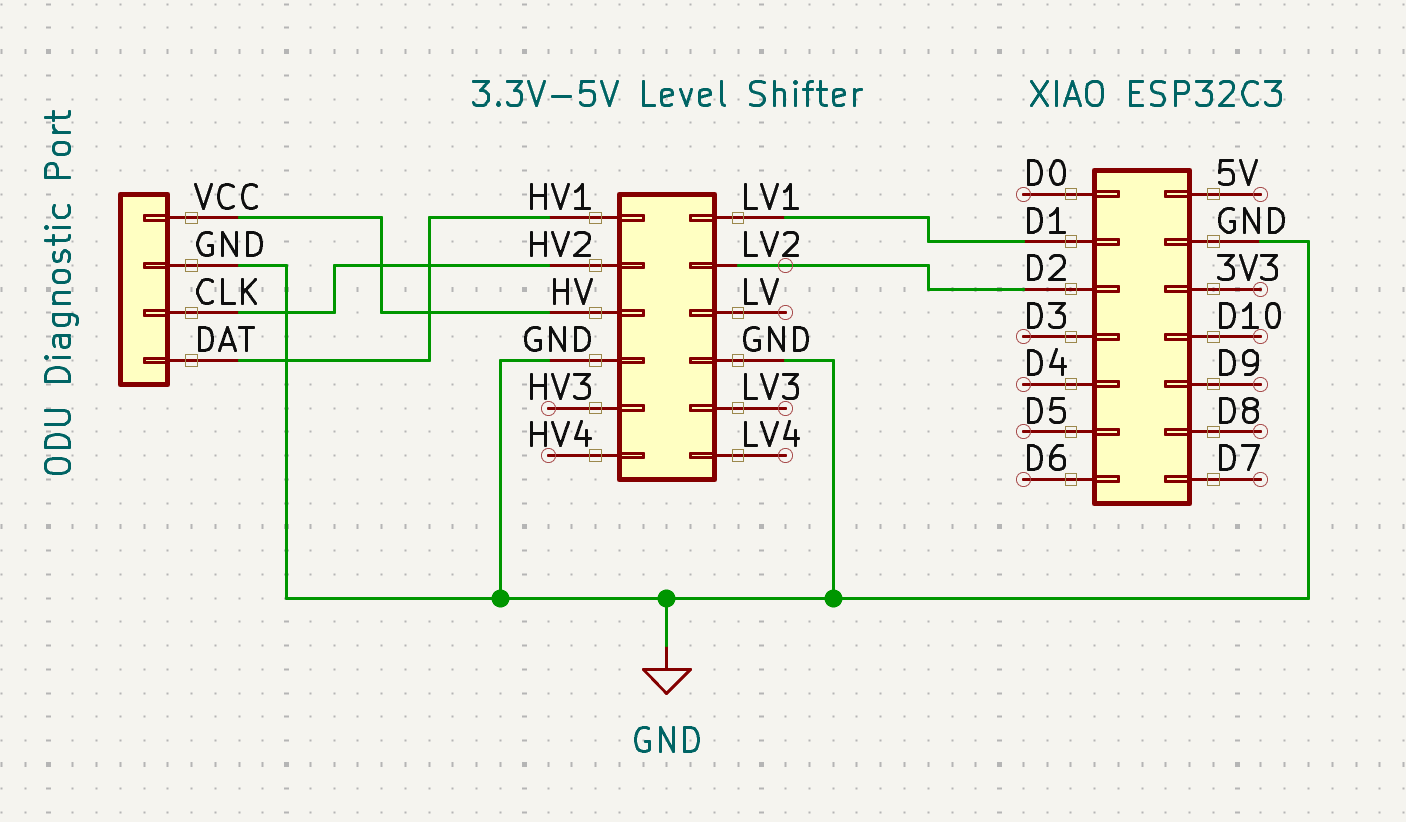
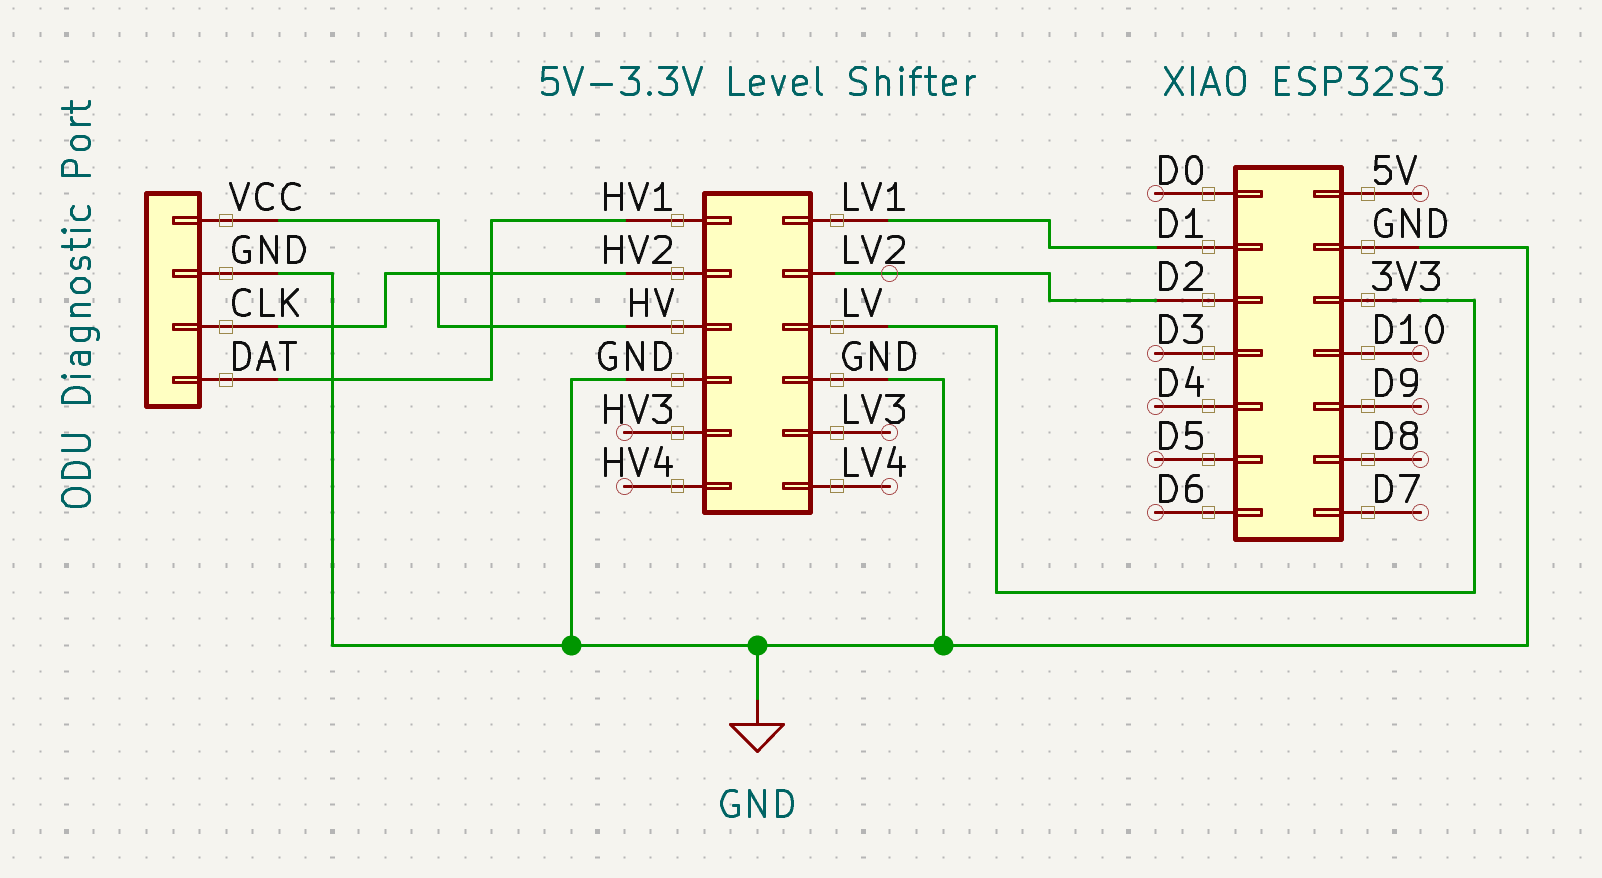
switch to HWCDCSerial

diff --git a/README.md b/README.md
@@ -1,6 +1,6 @@
 # midea-telemetry
 
-Arduino firmware for capturing telemetry from the diagnostic port on Midea mini-splits, located on the outdoor inverter board. Midea sells a handheld inverter tester that plugs into this port. This project reproduces that tester with a cheap ESP32 microcontroller, so you can log the same data yourself and explore the inner workings of your unit.
+Arduino firmware for capturing telemetry from the diagnostic port on Midea mini-splits, located on the outdoor inverter board. Midea sells a handheld inverter tester that plugs into this port. This project reproduces that tester with a cheap ESP32S3 microcontroller, so you can log the same data yourself and explore the inner workings of your unit.
 
 > ⚠️ **Safety.** The outdoor unit runs on mains voltage and can retain a dangerous charge after being unplugged. Only plug a connector into the diagnostic port if you know what you are doing. You are responsible for your own hardware and safety.
 
@@ -16,7 +16,7 @@ The only thing you need to connect an ESP32 to the diagnostic port is a level sh
 
 BOM:
 - [3.3V-5V Level Shifter](https://www.amazon.com/dp/B07F7W91LC)
-- [XIAO ESP32C3](https://www.amazon.com/dp/B0B94JZ2YF)
+- [XIAO ESP32S3](https://www.amazon.com/dp/B0BYSB66S5)
 
 ## Sketches
 
@@ -77,19 +77,22 @@ req=0xAA0200000000FF000055, res=0x550127ABB3E7006002DC, status=OK
 ...
 ```
 
-Note: On my ESP32-C3, I regularly see messages that don't decode fully — some bits are lost when loop() isn't called fast enough. There are ways around this, but I prefer to keep the sketch simple, and I can still capture enough data for analysis (even if it takes a couple of tries).
+Note: I initially used a ESP32C3 and I regularly encountered messages that don't decode fully — some bits are lost when loop() isn't called fast enough. There are ways around this, but I prefer to keep the sketch simple, and I can still capture enough data for analysis (even if it takes a couple of tries).
 
 When a request or response fails to decode, you'll see a line like:
 ```
 req=                      , res=                      , status=INCOMPLETE          
 ```
 
+Switching to a ESP32S3 has resolved those issues for me.
+
+
 ## Building & flashing
 
-1. Install the [Arduino IDE](https://www.arduino.cc/en/software) and select your board (e.g.,  ESP32C3) via the Boards Manager.
-2. Open the sketch you want (`arduino/firmware/firmware.ino` or `arduino/sniffer/sniffer.ino`).
+1. Install the [Arduino IDE](https://www.arduino.cc/en/software) and select your board (e.g.,  ESP32S3) via the Boards Manager.
+2. Open the sketch you want.
 3. Select your board and serial port, then upload.
-4. Open the **Serial Monitor at 115200 baud** to view the captured telemetry.
+4. Open the **Serial Monitor** to view the captured telemetry.
 
 ## Status
 